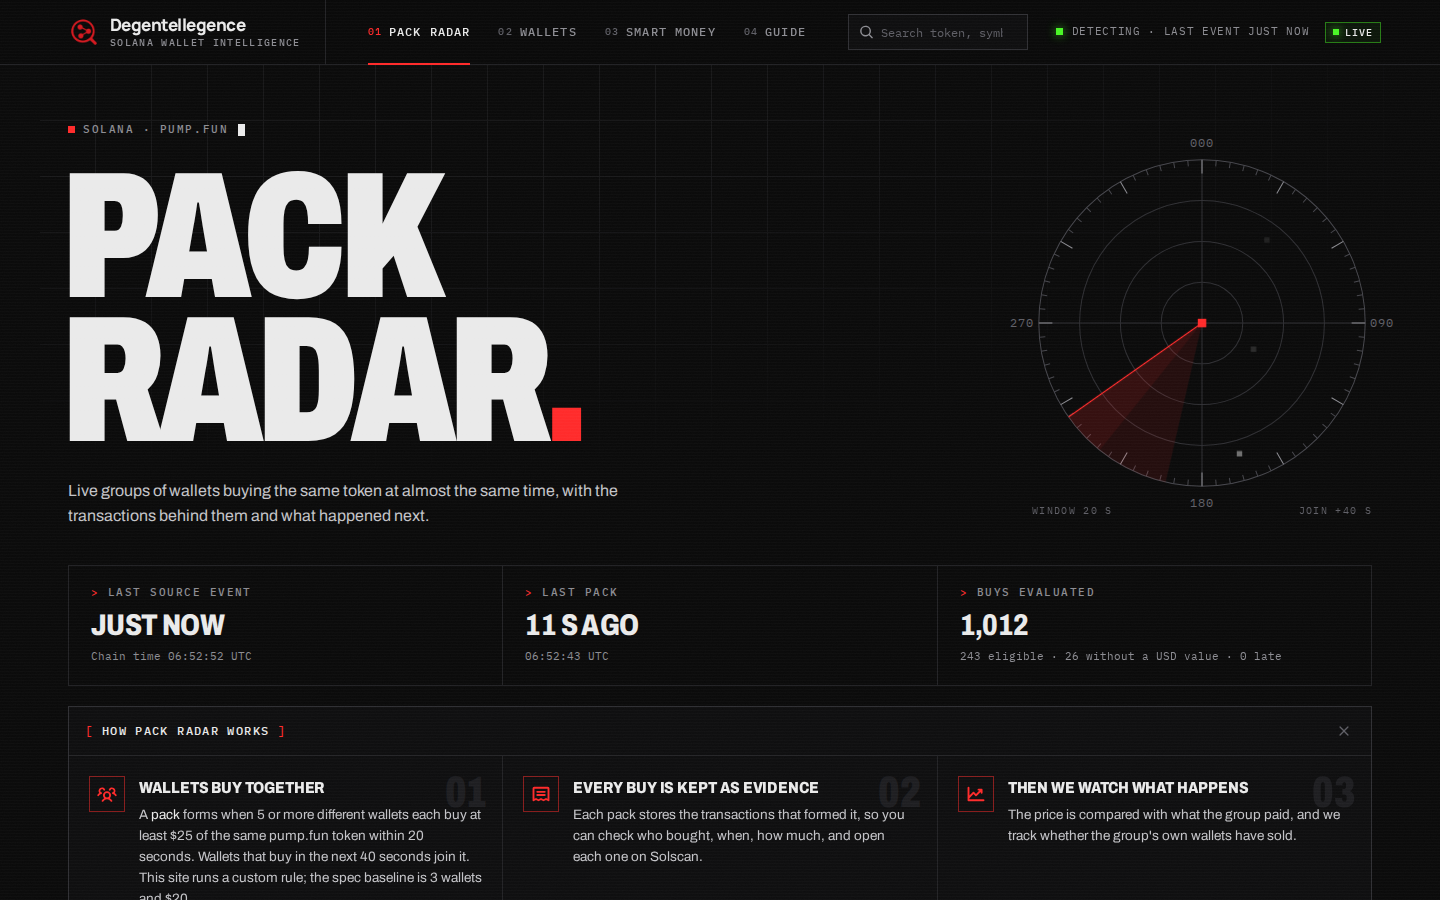
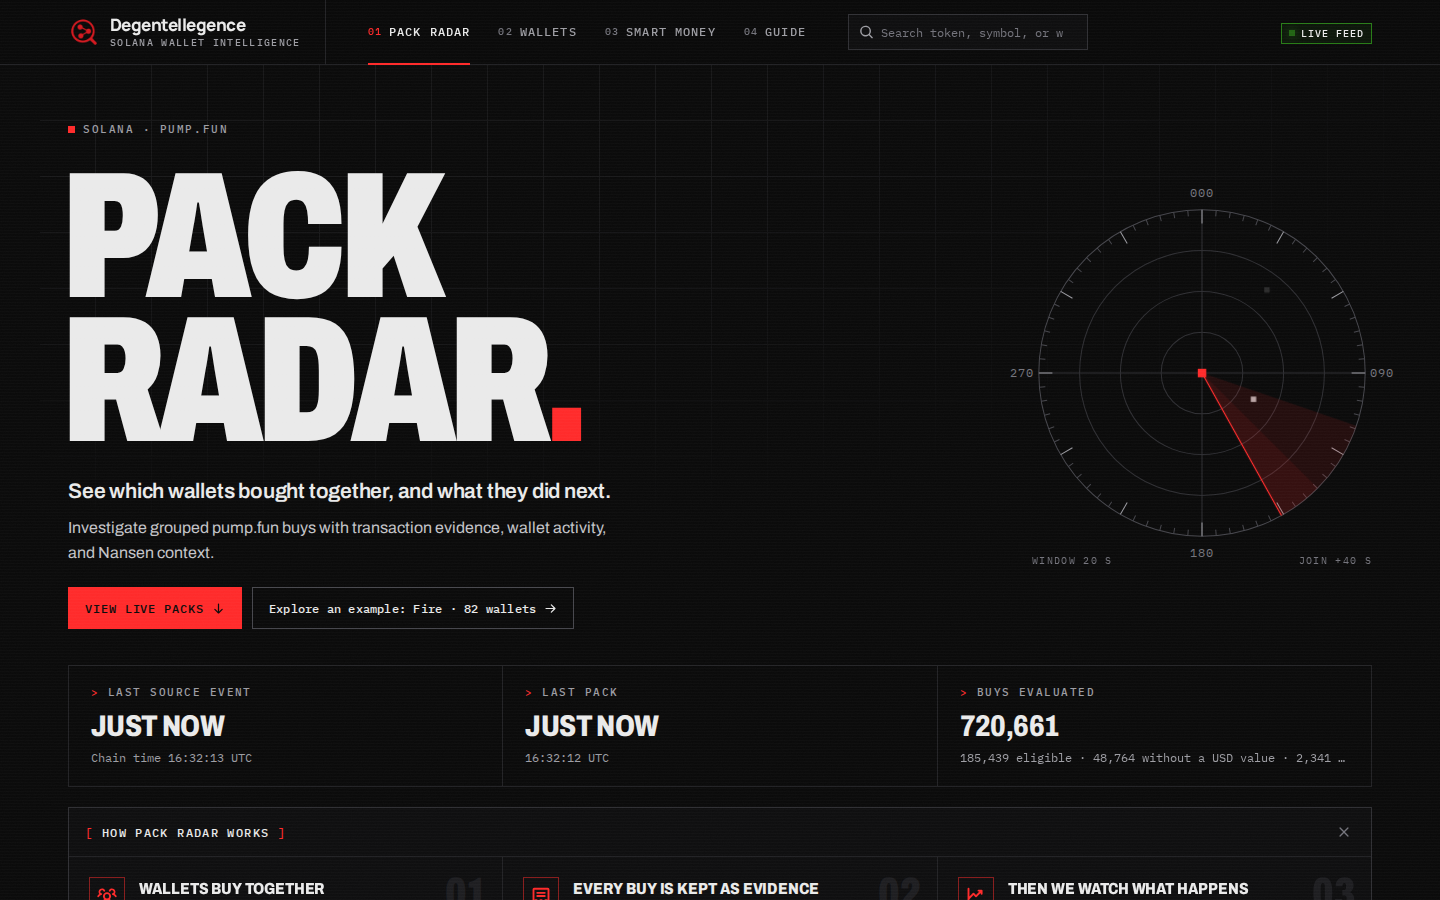
Refresh README screenshots and the root README for public review
The screenshots now show the current site: the single Live feed badge,
the new hero with its example link, and Smart Money as one pump.fun list.
The unreferenced operator screenshot from the old design is removed. The
root README now names Degentellegence and links the live site.

diff --git a/README.md b/README.md
@@ -1,8 +1,15 @@
-# degentelcld
+# Degentellegence
 
-**PackLens** — an investigation radar for grouped token purchases on Solana pump.fun, with Nansen wallet, token, and Smart Money context.
+**An investigation radar for grouped token purchases on Solana pump.fun, with Nansen wallet, token, and Smart Money context.**
 
-- App, setup, and documentation: [`packlens/`](packlens/README.md)
+**Live 24/7: [degentel.xyz](https://degentel.xyz)**
+
+![Pack Radar](packlens/docs/screenshots/radar-live.png)
+
+- App, setup, architecture, Nansen usage, and verification: [`packlens/`](packlens/README.md)
 - Product and technical specs: [`00-START-HERE.md`](00-START-HERE.md), [`01-PRD-PACKLENS.md`](01-PRD-PACKLENS.md), [`02-TECHNICAL-BLUEPRINT-PACKLENS.md`](02-TECHNICAL-BLUEPRINT-PACKLENS.md), [`03-MVP-AND-IMPLEMENTATION-PACKLENS.md`](03-MVP-AND-IMPLEMENTATION-PACKLENS.md)
+- Brand kit: [`degentellegence-brand-kit/`](degentellegence-brand-kit/README.md)
+
+The codebase keeps its working name, PackLens (package names, spec titles, `packlens.sqlite`).
 
 Research tool. Not trading advice.

diff --git a/packlens/README.md b/packlens/README.md
@@ -237,7 +237,7 @@ Full report with commands and outputs: [`docs/test-report.md`](docs/test-report.
 - **Live usage (G3/G4), 2026-09-25 10:57–11:12 UTC:** 24,490 real pump.fun trades decoded (0.34% late, 0 unpriced SOL trades), **149 packs** detected (largest 108 wallets), 15 packs analyzed, 136 Smart Money observations, and one pack with a confirmed Smart Money member (1 of 6, matched by transaction hash, wallet, and mint). Four graceful restarts preserved packs, cooldowns, the session, and the ledger.
 - **Nansen usage:** 272 attempts, **260 schema-valid responses** (the 100-call target is met), 492 credits settled, 16 unresolved (timeouts), 6 cache hits. Aggregate manifest: [`docs/usage-manifest.json`](docs/usage-manifest.json).
 
-| Pack detail (live) | Smart Money on the token (live) |
+| Pack detail (live) | Smart Money activity (live) |
 |---|---|
 | ![Pack detail](docs/screenshots/pack-live.png) | ![Smart Money](docs/screenshots/smart-money-live.png) |
 
